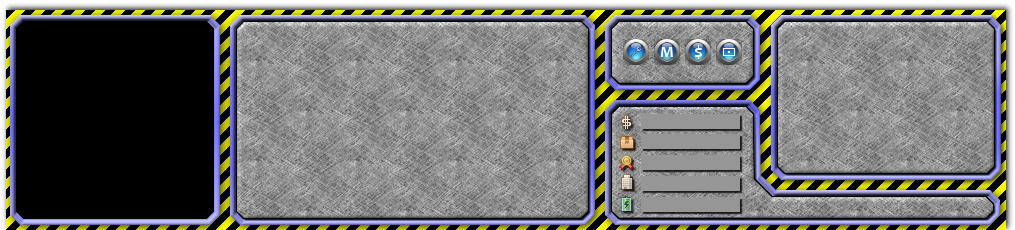
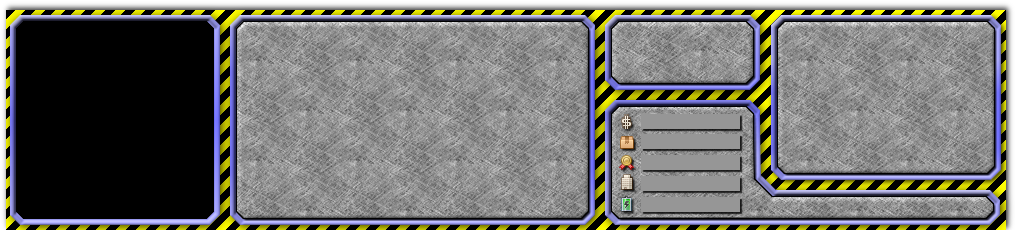
Cockpit part 2

Changed region(s): [[0.6108, 0.1522, 0.733, 0.3043]]

diff --git a/src/com/btxtech/game/jsre/client/CockpitNew.java b/src/com/btxtech/game/jsre/client/CockpitNew.java
@@ -16,8 +16,11 @@ package com.btxtech.game.jsre.client;
 import com.btxtech.game.jsre.client.cockpit.SelectionHandler;
 import com.btxtech.game.jsre.client.cockpit.radar.RadarPanel;
 import com.btxtech.game.jsre.client.common.Constants;
+import com.btxtech.game.jsre.client.common.info.RealityInfo;
+import com.btxtech.game.jsre.client.item.ItemContainer;
 import com.btxtech.game.jsre.client.terrain.MapWindow;
 import com.btxtech.game.jsre.client.terrain.TerrainView;
+import com.btxtech.game.jsre.client.utg.MissionTarget;
 import com.google.gwt.dom.client.Style;
 import com.google.gwt.event.dom.client.ClickEvent;
 import com.google.gwt.event.dom.client.ClickHandler;
@@ -28,6 +31,7 @@ import com.google.gwt.event.dom.client.MouseUpHandler;
 import com.google.gwt.user.client.ui.AbsolutePanel;
 import com.google.gwt.user.client.ui.Image;
 import com.google.gwt.user.client.ui.Label;
+import com.google.gwt.widgetideas.client.ProgressBar;
 
 /**
  * User: beat
@@ -38,20 +42,42 @@ public class CockpitNew extends AbsolutePanel {
     private static final CockpitNew INSTANCE = new CockpitNew();
     private static final int WIDTH = 1015;
     private static final int HEIGHT = 230;
+    // Radar
     private static final int RADAR_WIDTH = 198;
     private static final int RADAR_HEIGHT = 198;
     private static final int RADAR_LEFT = 17;
     private static final int RADAR_TOP = 21;
-    private static final int BUTTON_SCROLL_HOME_LEFT = 238;
-    private static final int BUTTON_SCROLL_HOME_TOP = 35;
-    private static final int BUTTON_SELL_LEFT = 238;
-    private static final int BUTTON_SELL_TOP = 70;
-    private static final int BUTTON_OPTION_LEFT = 238;
-    private static final int BUTTON_OPTION_TOP = 105;
-    private static final int MONEY_LEFT = 673;
-    private static final int MONEY_TOP = 33;
+    // Buttons
+    private static final int BUTTON_SCROLL_HOME_LEFT = 654;
+    private static final int BUTTON_SCROLL_HOME_TOP = 39;
+    private static final int BUTTON_SELL_LEFT = 684;
+    private static final int BUTTON_SELL_TOP = 39;
+    private static final int BUTTON_OPTION_LEFT = 623;
+    private static final int BUTTON_OPTION_TOP = 39;
+    private static final int MISSION_LEFT = 716;
+    private static final int MISSION_TOP = 39;
+    // Label
+    private static final int MONEY_LEFT = 644;
+    private static final int MONEY_TOP = 114;
+    private static final int XP_LEFT = 644;
+    private static final int XP_TOP = 134;
+    private static final int LEVEL_LEFT = 644;
+    private static final int LEVEL_TOP = 156;
+    private static final int ITEM_LIMIT_LEFT = 644;
+    private static final int ITEM_LIMIT_TOP = 176;
+    private static final int ENERGY_LEFT = 644;
+    private static final int ENERGY_TOP = 197;
+    private static final int ENERGY_BAR_LEFT = 775;
+    private static final int ENERGY_BAR_TOP = 202;
     private AbsolutePanel radar;
     private Label money;
+    private Label xp;
+    private Label level;
+    private Label itemLimit;
+    private Label energy;
+    private ProgressBar energyBar;
+    private int generating;
+    private int consuming;
 
     public static CockpitNew getInstance() {
         return INSTANCE;
@@ -69,6 +95,22 @@ public class CockpitNew extends AbsolutePanel {
         /////////////////////////////////
         money = new Label();
         add(money, MONEY_LEFT, MONEY_TOP);
+        xp = new Label();
+        add(xp, XP_LEFT, XP_TOP);
+        level = new Label();
+        add(level, LEVEL_LEFT, LEVEL_TOP);
+        itemLimit = new Label();
+        add(itemLimit, ITEM_LIMIT_LEFT, ITEM_LIMIT_TOP);
+        energy = new Label("0/0");
+        add(energy, ENERGY_LEFT, ENERGY_TOP);
+        energyBar = new ProgressBar(0, 0);
+        energyBar.setTextVisible(false);
+        energyBar.setStyleName("gwt-EnergyBar-shell");
+        energyBar.getElement().getStyle().setHeight(10, Style.Unit.PX);
+        energyBar.getElement().getStyle().setWidth(210, Style.Unit.PX);
+        energyBar.getElement().getStyle().setColor("#000000");
+        add(energyBar, ENERGY_BAR_LEFT, ENERGY_BAR_TOP);
+
     }
 
     private void setupButtons() {
@@ -95,6 +137,14 @@ public class CockpitNew extends AbsolutePanel {
             }
         });
         add(option, BUTTON_OPTION_LEFT, BUTTON_OPTION_TOP);
+        ExtendedCustomButton mission = new ExtendedCustomButton("/images/cockpit/missionButton-up.png", "/images/cockpit/missionButton-down.png", false, new ClickHandler() {
+            @Override
+            public void onClick(ClickEvent event) {
+                MissionTarget.getInstance().showMissionTargetDialog();
+            }
+        });
+
+        add(mission, MISSION_LEFT, MISSION_TOP);
     }
 
     private void setupRadar() {
@@ -145,5 +195,41 @@ public class CockpitNew extends AbsolutePanel {
             money.setText(Integer.toString((int) Math.round(ClientBase.getInstance().getAccountBalance())));
         }
     }
+
+    public void updateXp(int amount) {
+        if (xp != null) {
+            xp.setText(Integer.toString(amount));
+        }
+    }
+
+    public void setLevel(String level) {
+        this.level.setText(level);
+    }
+
+    public void updateItemLimit() {
+        StringBuilder builder = new StringBuilder();
+        builder.append(ItemContainer.getInstance().getOwnItemCount());
+        builder.append("/");
+        builder.append(ClientBase.getInstance().getHouseSpace());
+        itemLimit.setText(builder.toString());
+    }
+
+    public void updateEnergy(int generating, int consuming) {
+        energy.setText(Integer.toString(consuming) + "/" + Integer.toString(generating));
+        if (generating == 0) {
+            energyBar.setMaxProgress(consuming);
+        } else {
+            energyBar.setMaxProgress(generating);
+        }
+        energyBar.setProgress(consuming);        
+    }
+
+    public void setGameInfo(RealityInfo realityInfo) {
+        money.setText("$" + Integer.toString((int) realityInfo.getAccountBalance()));
+        xp.setText(Integer.toString(realityInfo.getXp()));
+        // TODO updateEnergy(realityInfo.getEnergyGenerating(), realityInfo.getEnergyConsuming());
+        // TODO updateBase();
+    }
+
 
 }

diff --git a/src/com/btxtech/game/jsre/client/Connection.java b/src/com/btxtech/game/jsre/client/Connection.java
@@ -133,7 +133,7 @@ public class Connection implements AsyncCallback<Void> {
         ClientBase.getInstance().setAllBaseAttributes(realityInfo.getAllBase());
         ClientBase.getInstance().setBase(realityInfo.getBase());
         ClientBase.getInstance().setAccountBalance(realityInfo.getAccountBalance());
-        InfoPanel.getInstance().setGameInfo(realityInfo);
+        CockpitNew.getInstance().setGameInfo(realityInfo);
         ClientItemTypeAccess.getInstance().setAllowedItemTypes(realityInfo.getAllowedItemTypes());
         RadarPanel.getInstance().updateEnergy(realityInfo.getEnergyGenerating(), realityInfo.getEnergyConsuming());
         OnlineBasePanel.getInstance().setOnlineBases(realityInfo.getOnlineBaseUpdate());
@@ -221,14 +221,14 @@ public class Connection implements AsyncCallback<Void> {
                     ClientBase.getInstance().setAccountBalance(balancePacket.getAccountBalance());
                 } else if (packet instanceof XpBalancePacket) {
                     XpBalancePacket xpBalancePacket = (XpBalancePacket) packet;
-                    InfoPanel.getInstance().updateXp(xpBalancePacket.getXp());
+                    CockpitNew.getInstance().updateXp(xpBalancePacket.getXp());
                 } else if (packet instanceof ItemTypeAccessSyncInfo) {
                     ItemTypeAccessSyncInfo itemTypeAccessSyncInfo = (ItemTypeAccessSyncInfo) packet;
                     ClientItemTypeAccess.getInstance().setAllowedItemTypes(itemTypeAccessSyncInfo.getAllowedItemTypes());
                     SelectionHandler.getInstance().refresh();
                 } else if (packet instanceof EnergyPacket) {
                     EnergyPacket energyPacket = (EnergyPacket) packet;
-                    InfoPanel.getInstance().updateEnergy(energyPacket.getGenerating(), energyPacket.getConsuming());
+                    CockpitNew.getInstance().updateEnergy(energyPacket.getGenerating(), energyPacket.getConsuming());
                     RadarPanel.getInstance().updateEnergy(energyPacket.getGenerating(), energyPacket.getConsuming());
                 } else if (packet instanceof UserMessage) {
                     OnlineBasePanel.getInstance().onMessageReceived((UserMessage) packet);
@@ -242,7 +242,7 @@ public class Connection implements AsyncCallback<Void> {
                 } else if (packet instanceof HouseSpacePacket) {
                     HouseSpacePacket houseSpacePacket = (HouseSpacePacket) packet;
                     ClientBase.getInstance().setHouseSpace(houseSpacePacket.getHouseSpace());
-                    InfoPanel.getInstance().updateItemLimit();
+                    CockpitNew.getInstance().updateItemLimit();
                 } else {
                     throw new IllegalArgumentException(this + " unknown packet: " + packet);
                 }

diff --git a/src/com/btxtech/game/jsre/client/InfoPanel.java b/src/com/btxtech/game/jsre/client/InfoPanel.java
@@ -180,13 +180,6 @@ public class InfoPanel extends TopMapPanel {
         return INSTANCE;
     }
 
-    public void setGameInfo(RealityInfo realityInfo) {
-        money.setText("$" + Integer.toString((int) realityInfo.getAccountBalance()));
-        xp.setText(Integer.toString(realityInfo.getXp()));
-        updateEnergy(realityInfo.getEnergyGenerating(), realityInfo.getEnergyConsuming());
-        updateBase();
-    }
-
     public void updateBase() {
         name.setText(ClientBase.getInstance().getOwnBaseName());
         marker.getElement().getStyle().setBackgroundColor(ClientBase.getInstance().getOwnBaseHtmlColor());
@@ -198,28 +191,10 @@ public class InfoPanel extends TopMapPanel {
         }
     }
 
-    public void updateXp(int amount) {
-        if (xp != null) {
-            xp.setText(Integer.toString(amount));
-        }
-    }
-
-
     public void setAbsoluteCureserPos(int x, int y) {
         if (cursorPos != null) {
             cursorPos.setText(x + ":" + y);
         }
-    }
-
-    public void updateEnergy(int generating, int consuming) {
-        this.generating = generating;
-        this.consuming = consuming;
-        if (generating == 0) {
-            energyBar.setMaxProgress(consuming);
-        } else {
-            energyBar.setMaxProgress(generating);
-        }
-        energyBar.setProgress(consuming);
     }
 
     public Button getScrollHome() {
@@ -238,17 +213,4 @@ public class InfoPanel extends TopMapPanel {
         return money;
     }
 
-    public void setLevel(String level) {
-        this.level.setText(level);
-    }
-
-    public void updateItemLimit() {
-        StringBuilder builder = new StringBuilder();
-        builder.append(ItemContainer.getInstance().getOwnItemCount());
-        builder.append("/");
-        builder.append(ClientBase.getInstance().getHouseSpace());
-        builder.append("/");
-        builder.append(ClientBase.getInstance().getItemLimit());
-        itemLimit.setText(builder.toString());
-    }
 }

diff --git a/src/com/btxtech/game/jsre/client/item/ItemContainer.java b/src/com/btxtech/game/jsre/client/item/ItemContainer.java
@@ -16,6 +16,7 @@ package com.btxtech.game.jsre.client.item;
 import com.btxtech.game.jsre.client.ClientBase;
 import com.btxtech.game.jsre.client.ClientServices;
 import com.btxtech.game.jsre.client.ClientSyncItem;
+import com.btxtech.game.jsre.client.CockpitNew;
 import com.btxtech.game.jsre.client.Connection;
 import com.btxtech.game.jsre.client.GwtCommon;
 import com.btxtech.game.jsre.client.InfoPanel;
@@ -220,7 +221,7 @@ public class ItemContainer extends AbstractItemService implements CommonCollisio
         if (itemView.isMyOwnProperty()) {
             ownItemCount++;
             if (StartupProbe.getInstance().isRunning()) {
-                InfoPanel.getInstance().updateItemLimit();
+                CockpitNew.getInstance().updateItemLimit();
             }
         }
         return itemView;
@@ -251,7 +252,7 @@ public class ItemContainer extends AbstractItemService implements CommonCollisio
         if (itemView.isMyOwnProperty()) {
             ownItemCount--;
             if (StartupProbe.getInstance().isRunning()) {
-                InfoPanel.getInstance().updateItemLimit();
+                CockpitNew.getInstance().updateItemLimit();
             }
         }
         checkSpecialRemoved(itemView);

diff --git a/src/com/btxtech/game/jsre/client/utg/MissionTarget.java b/src/com/btxtech/game/jsre/client/utg/MissionTarget.java
@@ -19,6 +19,7 @@
 package com.btxtech.game.jsre.client.utg;
 
 import com.btxtech.game.jsre.client.ClientBase;
+import com.btxtech.game.jsre.client.CockpitNew;
 import com.btxtech.game.jsre.client.Connection;
 import com.btxtech.game.jsre.client.InfoPanel;
 import com.btxtech.game.jsre.client.common.Level;
@@ -83,12 +84,12 @@ public class MissionTarget {
 
     public void setLevel(Level level) {
         this.level = level;
-        InfoPanel.getInstance().setLevel(level.getName());
+        CockpitNew.getInstance().setLevel(level.getName());
     }
 
     public void onLevelChanged(LevelPacket levelPacket) {
         ClientBase.getInstance().setItemLimit(levelPacket.getLevel().getItemLimit());
-        InfoPanel.getInstance().updateItemLimit();
+        CockpitNew.getInstance().updateItemLimit();
         loadingRequired = true;
         String oldLevel = level.getName();
         setLevel(levelPacket.getLevel());

diff --git a/src/com/btxtech/game/jsre/client/simulation/Simulation.java b/src/com/btxtech/game/jsre/client/simulation/Simulation.java
@@ -97,7 +97,7 @@ public class Simulation implements SelectionListener {
         InfoPanel.getInstance().getSell().setEnabled(taskConfig.isSellingAllowed());
         ClientBase.getInstance().setHouseSpace(taskConfig.getHouseCount());
         ClientBase.getInstance().setItemLimit(taskConfig.getItemLimit());
-        InfoPanel.getInstance().updateItemLimit();
+        CockpitNew.getInstance().updateItemLimit();
 
         for (ItemTypeAndPosition itemTypeAndPosition : taskConfig.getOwnItems()) {
             try {

diff --git a/src/com/btxtech/game/jsre/client/StartupProbe.java b/src/com/btxtech/game/jsre/client/StartupProbe.java
@@ -201,7 +201,7 @@ public class StartupProbe {
         RegisterDialog.showDialogRepeating();
         Simulation.getInstance().start();
         MapWindow.getInstance().displayVisibleItems();
-        InfoPanel.getInstance().updateItemLimit();        
+        CockpitNew.getInstance().updateItemLimit();        
     }
 
     private void enableCloseButton() {
